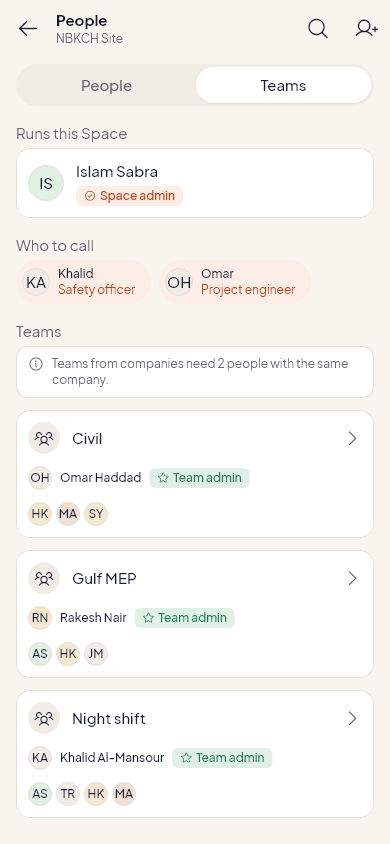
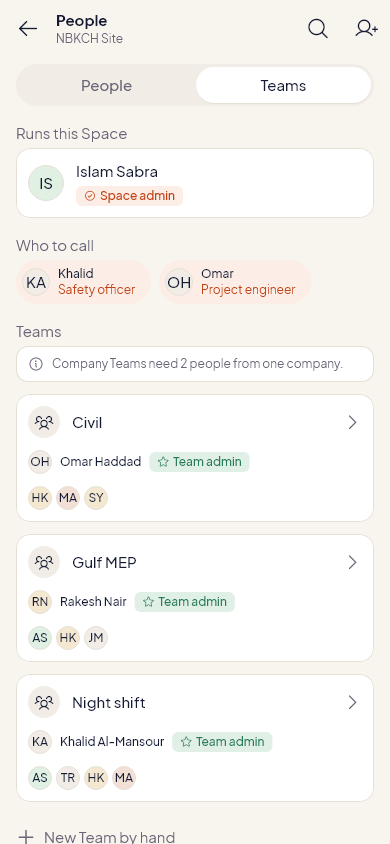
Review 122c, lead's check: KP3 drops the drag hint; TM0 English one line
- KP3: "Hold and drag a role to move it." gone (keyPeopleReorder removed from both ARBs); dragging unchanged.
- TM0 EN: "Company Teams need 2 people from one company." (founder's pick; the lead's wording needs 329 px of 310). AR unchanged.
- Tests EN/AR; TM0 golden test checks one line with the app's fonts; goldens kp3 en/ar, tm0 en.

diff --git a/test/features/spaces/short_text_r122c_test.dart b/test/features/spaces/short_text_r122c_test.dart
@@ -110,7 +110,7 @@ void main() {
             of: _key('teams-company-hint'),
             matching: find.text(
               t(
-                'Teams from companies need 2 people with the same company.',
+                'Company Teams need 2 people from one company.',
                 'فرق الشركات تحتاج شخصين من نفس الشركة.',
               ),
             ),
@@ -154,6 +154,32 @@ void main() {
           findsOneWidget,
         );
         expect(_key('key-people-add'), findsOneWidget);
+      });
+
+      testWidgets('KP3 with two roles: no drag hint (lead\'s check)', (
+        tester,
+      ) async {
+        await _go(
+          tester,
+          lang,
+          '/spaces/$_space/key-people',
+          who: const KeyPeople(
+            roles: [
+              KeyRole(id: 'r-safety', name: 'Safety officer'),
+              KeyRole(id: 'r-store', name: 'Storekeeper'),
+            ],
+          ),
+        );
+        expect(_key('key-role-r-store'), findsOneWidget);
+        expect(
+          find.text(
+            t(
+              'Hold and drag a role to move it.',
+              'اضغط مطولًا على دور واسحبه لتغيير ترتيبه.',
+            ),
+          ),
+          findsNothing,
+        );
       });
 
       testWidgets('KP4: no "Role name" label; "Call them for" stays', (

diff --git a/test_screens/r121_test.dart b/test_screens/r121_test.dart
@@ -5,6 +5,7 @@
 import 'package:buildvibes/data/models/key_people.dart';
 import 'package:buildvibes/data/models/space.dart';
 import 'package:flutter/material.dart';
+import 'package:flutter/rendering.dart';
 import 'package:flutter_test/flutter_test.dart';
 import 'package:go_router/go_router.dart';
 
@@ -344,6 +345,24 @@ void main() {
     testWidgets('TM0 [$lang]', (tester) async {
       await go(tester, '/spaces/$_space/people', admin: true);
       await _tap(tester, 'people-view-teams');
+      // Lead's check of 122c: the line fits on one line at 390, EN and AR.
+      final line = tester.renderObject<RenderParagraph>(
+        find.descendant(
+          of: find.descendant(
+            of: find.byKey(const Key('teams-company-hint')),
+            matching: find.byType(Text),
+          ),
+          matching: find.byType(RichText),
+        ),
+      );
+      final oneLine = line.getFullHeightForCaret(
+        const TextPosition(offset: 0),
+      );
+      expect(
+        line.size.height,
+        lessThan(oneLine * 1.5),
+        reason: 'TM0 wraps in $lang: ${line.text.toPlainText()}',
+      );
       await _snap(tester, 'tm0', lang, review: 'r122');
     });
 

diff --git a/lib/features/spaces/key_people_screen.dart b/lib/features/spaces/key_people_screen.dart
@@ -83,7 +83,6 @@ class _KeyPeopleScreenState extends ConsumerState<KeyPeopleScreen> {
     final space = ref.watch(spaceDetailProvider(_spaceId)).value;
     final people = ref.watch(spaceKeyPeopleProvider(_spaceId));
     final roles = _moved ?? people.value?.roles;
-    final quiet = type.metadata.copyWith(color: BvColors.textSecondary);
 
     return BvSectionScaffold(
       title: l10n.keyPeopleTitle,
@@ -130,8 +129,6 @@ class _KeyPeopleScreenState extends ConsumerState<KeyPeopleScreen> {
                         ),
                       ),
                     ),
-                  if (roles.length > 1)
-                    Text(l10n.keyPeopleReorder, style: quiet),
                 ],
               ),
               children: [

diff --git a/lib/l10n/gen/app_localizations.dart b/lib/l10n/gen/app_localizations.dart
@@ -12563,14 +12563,8 @@ abstract class AppLocalizations {
   /// Review 122 TM0: for the Space admin, under Teams, while no company of 2 or more people waits.
   ///
   /// In en, this message translates to:
-  /// **'Teams from companies need 2 people with the same company.'**
+  /// **'Company Teams need 2 people from one company.'**
   String get teamsCompanyHint;
-
-  /// Review 121 KP3: how to change the order (more than one role).
-  ///
-  /// In en, this message translates to:
-  /// **'Hold and drag a role to move it.'**
-  String get keyPeopleReorder;
 
   /// Review 121 KP4: the sheet's title for a new role.
   ///

diff --git a/lib/l10n/gen/app_localizations_ar.dart b/lib/l10n/gen/app_localizations_ar.dart
@@ -7658,9 +7658,6 @@ class AppLocalizationsAr extends AppLocalizations {
   String get teamsCompanyHint => 'فرق الشركات تحتاج شخصين من نفس الشركة.';
 
   @override
-  String get keyPeopleReorder => 'اضغط مطولًا على دور واسحبه لتغيير ترتيبه.';
-
-  @override
   String get keyRoleNew => 'دور أساسي جديد';
 
   @override

diff --git a/lib/l10n/gen/app_localizations_en.dart b/lib/l10n/gen/app_localizations_en.dart
@@ -7593,10 +7593,7 @@ class AppLocalizationsEn extends AppLocalizations {
 
   @override
   String get teamsCompanyHint =>
-      'Teams from companies need 2 people with the same company.';
-
-  @override
-  String get keyPeopleReorder => 'Hold and drag a role to move it.';
+      'Company Teams need 2 people from one company.';
 
   @override
   String get keyRoleNew => 'New key role';

diff --git a/test/features/spaces/empty_states_r122_test.dart b/test/features/spaces/empty_states_r122_test.dart
@@ -183,7 +183,7 @@ void main() {
     group('TM0 why no Teams from companies [$lang]', () {
       // Review 122c: one short line.
       final hint = t(
-        'Teams from companies need 2 people with the same company.',
+        'Company Teams need 2 people from one company.',
         'فرق الشركات تحتاج شخصين من نفس الشركة.',
       );
 
